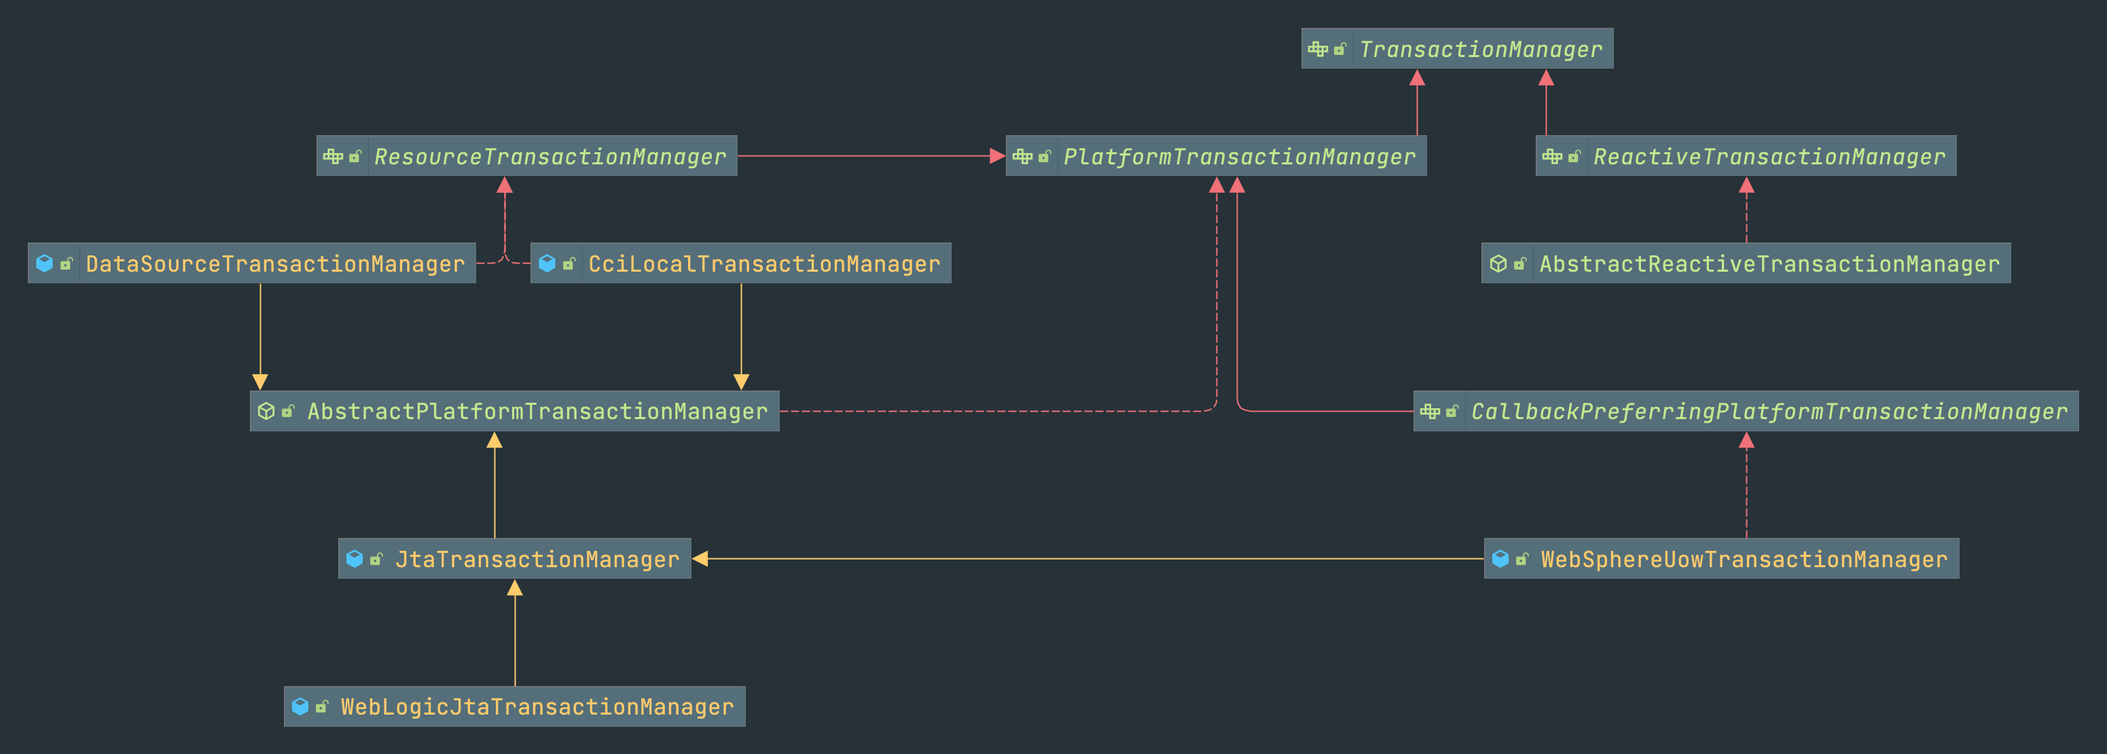
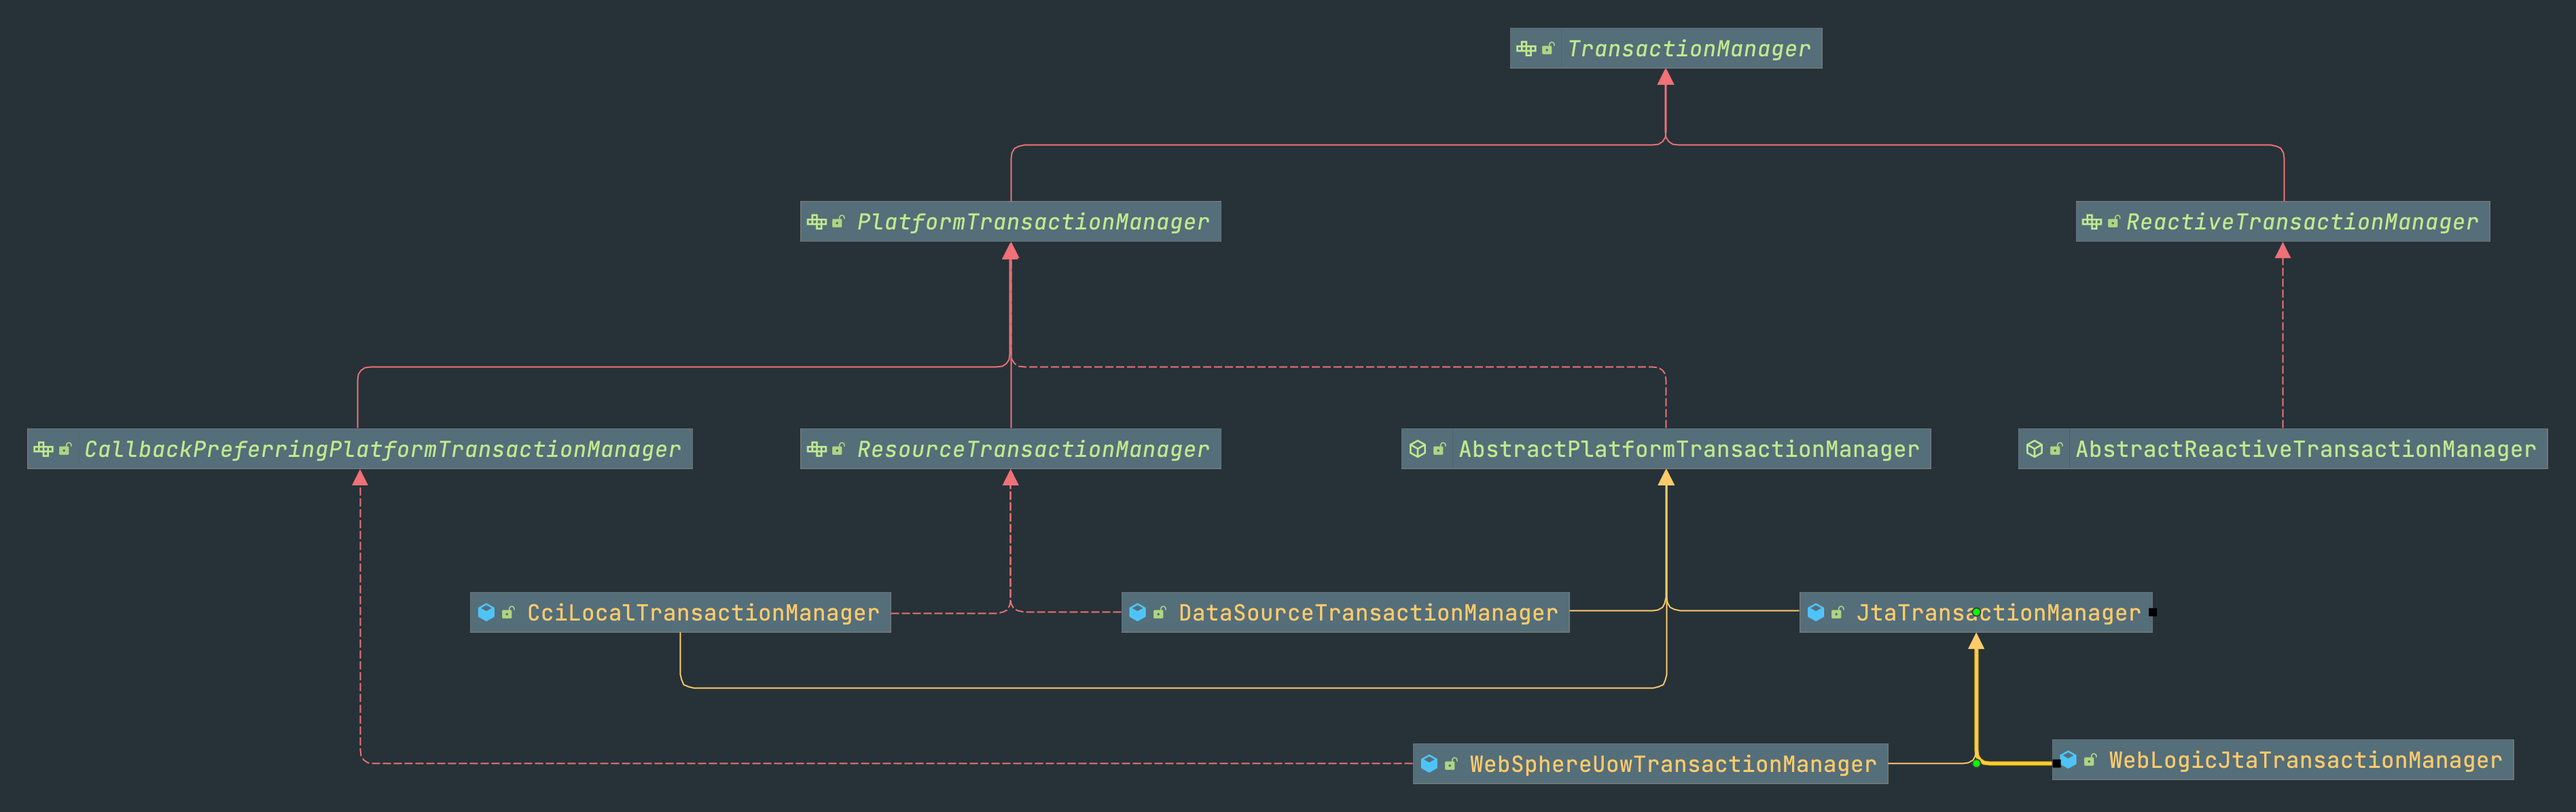
事务源码解析-更新Spring事务案例

diff --git a/src/main/java/com/rhys/testSourceCode/transaction/service/UserService.java b/src/main/java/com/rhys/testSourceCode/transaction/service/UserService.java
@@ -1,0 +1,24 @@
+package com.rhys.testSourceCode.transaction.service;
+
+import com.rhys.testSourceCode.transaction.dao.OccupationDao;
+import com.rhys.testSourceCode.transaction.dao.UserDao;
+import org.springframework.stereotype.Service;
+
+import javax.annotation.Resource;
+
+/**
+ * @author Rhys.Ni
+ * @version 1.0
+ * @date 2023/9/7 4:33 AM
+ */
+@Service
+public class UserService {
+
+    @Resource
+    private UserDao userDao;
+
+    @Resource
+    private OccupationDao occupationDao;
+
+
+}

diff --git a/src/main/java/com/rhys/testSourceCode/transaction/service/OccupationService.java b/src/main/java/com/rhys/testSourceCode/transaction/service/OccupationService.java
@@ -1,0 +1,20 @@
+package com.rhys.testSourceCode.transaction.service;
+
+import com.rhys.testSourceCode.transaction.dao.OccupationDao;
+import org.springframework.stereotype.Service;
+
+import javax.annotation.Resource;
+
+/**
+ * @author Rhys.Ni
+ * @version 1.0
+ * @date 2023/9/7 4:34 AM
+ */
+@Service
+public class OccupationService {
+
+    @Resource
+    private OccupationDao occupationDao;
+
+
+}

diff --git a/src/main/java/com/rhys/testSourceCode/transaction/dao/OccupationDao.java b/src/main/java/com/rhys/testSourceCode/transaction/dao/OccupationDao.java
@@ -1,0 +1,18 @@
+package com.rhys.testSourceCode.transaction.dao;
+
+import org.springframework.jdbc.core.JdbcTemplate;
+import org.springframework.stereotype.Component;
+
+import javax.annotation.Resource;
+
+/**
+ * @author Rhys.Ni
+ * @version 1.0
+ * @date 2023/9/7 4:34 AM
+ */
+@Component
+public class OccupationDao {
+
+    @Resource
+    private JdbcTemplate jdbcTemplate;
+}

diff --git a/src/main/java/com/rhys/testSourceCode/transaction/dao/UserDao.java b/src/main/java/com/rhys/testSourceCode/transaction/dao/UserDao.java
@@ -1,0 +1,20 @@
+package com.rhys.testSourceCode.transaction.dao;
+
+import org.springframework.jdbc.core.JdbcTemplate;
+import org.springframework.stereotype.Component;
+
+import javax.annotation.Resource;
+
+/**
+ * @author Rhys.Ni
+ * @version 1.0
+ * @date 2023/9/7 4:33 AM
+ */
+@Component
+public class UserDao {
+
+    @Resource
+    private JdbcTemplate jdbcTemplate;
+
+
+}

diff --git a/src/main/java/com/rhys/testSourceCode/transaction/entity/Occupation.java b/src/main/java/com/rhys/testSourceCode/transaction/entity/Occupation.java
@@ -1,4 +1,4 @@
-package com.rhys.testSourceCode.transaction;
+package com.rhys.testSourceCode.transaction.entity;
 
 import lombok.Data;
 

diff --git a/src/main/java/com/rhys/testSourceCode/transaction/entity/User.java b/src/main/java/com/rhys/testSourceCode/transaction/entity/User.java
@@ -1,4 +1,4 @@
-package com.rhys.testSourceCode.transaction;
+package com.rhys.testSourceCode.transaction.entity;
 
 import lombok.Data;
 

diff --git a/Spring源码解析篇.md b/Spring源码解析篇.md
@@ -5580,11 +5580,19 @@ public class TransactionTestMain {
   </dependency>
 ```
 
+#### Spring事务
+
+```java
+
+```
+
+
+
 #### 事务管理器结构
 
 ![TransactionManager](https://article.biliimg.com/bfs/article/d9b5f4e6d236f7040e2fa5a7f9546592012e982c.png)
 
-![TransactionManager](https://article.biliimg.com/bfs/article/2cf0b23f6b6a0a8a24a9384582a504bfd821830f.png)
+![TransactionManager](https://article.biliimg.com/bfs/article/b3cadea5166fb87c3ad6f0a2303b184945925124.png)
 
 ##### TransactionManager
 
